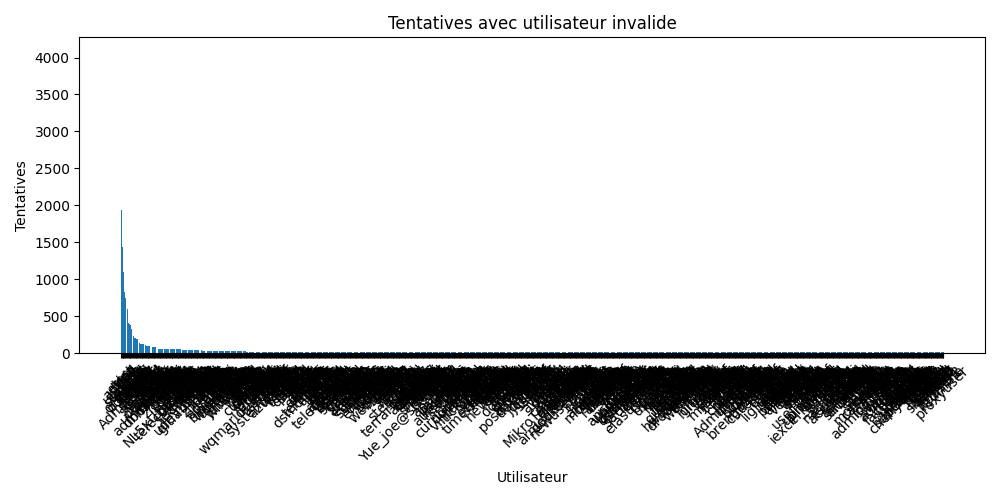
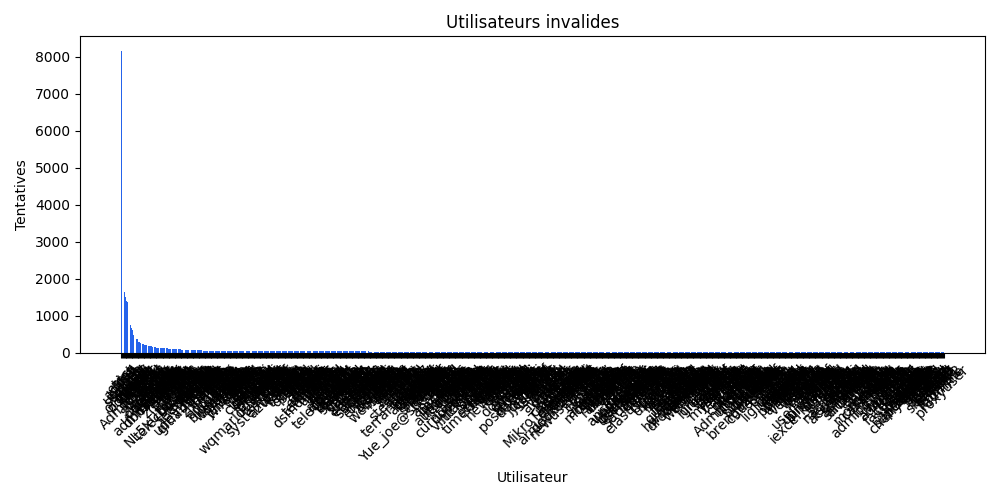
correction

diff --git a/serving/dashboard.py b/serving/dashboard.py
@@ -1,15 +1,11 @@
 import logging
 import os
 import subprocess
-import tkinter as tk
-from tkinter import ttk
 from typing import List, Tuple
 from html import escape
 
-import matplotlib
-
-matplotlib.use("Agg")
 import matplotlib.pyplot as plt
+from matplotlib.patches import FancyBboxPatch
 
 LOGGER = logging.getLogger(__name__)
 
@@ -76,82 +72,6 @@ def _table_rows(data: List[Tuple[str, int]]) -> str:
     )
 
 
-def _write_html(output_dir: str, chart_data: dict) -> None:
-    failed = chart_data["failed_attempts_by_country"]
-    successful = chart_data["successful_attempts_by_user"]
-    invalid = chart_data["failed_invalid_users_by_user"]
-    failed_total = sum(value for _, value in failed)
-    successful_total = sum(value for _, value in successful)
-    invalid_total = sum(value for _, value in invalid)
-    html = f"""<!doctype html>
-<html lang="fr">
-<head>
-  <meta charset="utf-8">
-  <meta name="viewport" content="width=device-width, initial-scale=1">
-  <title>Log Analyser | Dashboard</title>
-  <style>
-    :root {{ --bg:#f4f7fb; --ink:#172033; --muted:#6b7280; --card:#fff;
-      --blue:#2563eb; --red:#dc2626; --green:#059669; --orange:#ea580c; }}
-    * {{ box-sizing:border-box; }}
-    body {{ margin:0; background:var(--bg); color:var(--ink);
-      font:15px -apple-system,BlinkMacSystemFont,"Segoe UI",sans-serif; }}
-    header {{ background:linear-gradient(120deg,#172554,#2563eb); color:white;
-      padding:34px max(24px,calc((100% - 1180px)/2)); }}
-    header h1 {{ margin:0 0 8px; font-size:30px; }}
-    header p {{ margin:0; opacity:.82; }}
-    main {{ max-width:1180px; margin:28px auto; padding:0 24px; }}
-    .cards {{ display:grid; grid-template-columns:repeat(3,1fr); gap:18px; }}
-    .card,.panel {{ background:var(--card); border-radius:14px; padding:22px;
-      box-shadow:0 5px 18px #17255412; }}
-    .card {{ border-left:5px solid var(--blue); }}
-    .card.red {{ border-color:var(--red); }} .card.green {{ border-color:var(--green); }}
-    .card.orange {{ border-color:var(--orange); }}
-    .label {{ color:var(--muted); font-size:13px; text-transform:uppercase;
-      letter-spacing:.06em; }} .value {{ margin-top:8px; font-size:32px; font-weight:700; }}
-    .grid {{ display:grid; grid-template-columns:repeat(2,1fr); gap:18px; margin-top:18px; }}
-    .panel h2 {{ margin:0 0 15px; font-size:19px; }}
-    .chart {{ width:100%; border-radius:8px; background:#fafafa; }}
-    table {{ width:100%; border-collapse:collapse; }}
-    th,td {{ padding:11px 8px; text-align:left; border-bottom:1px solid #e8edf5; }}
-    th:last-child,td:last-child {{ text-align:right; }} th {{ color:var(--muted); font-size:12px;
-      text-transform:uppercase; }} .empty {{ text-align:center!important; color:var(--muted); }}
-    footer {{ color:var(--muted); text-align:center; padding:20px; font-size:13px; }}
-    @media(max-width:760px) {{ .cards,.grid {{ grid-template-columns:1fr; }} main {{ padding:0 14px; }} }}
-  </style>
-</head>
-<body>
-  <header><h1>Log Analyser</h1><p>Dashboard de surveillance des authentifications SSH</p></header>
-  <main>
-    <section class="cards">
-      <div class="card red"><div class="label">Tentatives échouées</div><div class="value">{failed_total:,}</div></div>
-      <div class="card green"><div class="label">Connexions réussies</div><div class="value">{successful_total:,}</div></div>
-      <div class="card orange"><div class="label">Utilisateurs invalides</div><div class="value">{invalid_total:,}</div></div>
-    </section>
-    <section class="grid">
-      <article class="panel"><h2>Échecs par pays</h2>
-        <img class="chart" src="failed_attempts_by_country.png" alt="Échecs par pays">
-        <table><thead><tr><th>Pays</th><th>Nombre</th></tr></thead>
-          <tbody>{_table_rows(failed)}</tbody></table>
-      </article>
-      <article class="panel"><h2>Connexions réussies par utilisateur</h2>
-        <img class="chart" src="successful_attempts_by_user.png" alt="Connexions réussies">
-        <table><thead><tr><th>Utilisateur</th><th>Nombre</th></tr></thead>
-          <tbody>{_table_rows(successful)}</tbody></table>
-      </article>
-      <article class="panel"><h2>Utilisateurs invalides</h2>
-        <img class="chart" src="failed_invalid_users_by_user.png" alt="Utilisateurs invalides">
-        <table><thead><tr><th>Utilisateur</th><th>Nombre</th></tr></thead>
-          <tbody>{_table_rows(invalid)}</tbody></table>
-      </article>
-    </section>
-  </main>
-  <footer>Généré automatiquement par le projet Log Analyser</footer>
-</body>
-</html>
-"""
-    with open(os.path.join(output_dir, "index.html"), "w", encoding="utf-8") as file:
-        file.write(html)
-
 
 def launch_dashboard_app() -> None:
     """Generate and display the dashboard in a native desktop window."""
@@ -165,107 +85,120 @@ def launch_dashboard_app() -> None:
     try:
         os.makedirs(output_dir, exist_ok=True)
         values = [(title, _query(f"SELECT * FROM {view};")) for title, view in datasets]
-        data_by_title = dict(values)
-        for title, (view, x_label, y_label) in zip(
-            ("Tentatives échouées par pays", "Tentatives réussies par utilisateur",
-             "Tentatives avec utilisateur invalide"),
+        chart_specs = (
+            ("Échecs par pays", "failed_attempts_by_country", "Pays", "Tentatives"),
             (
-                ("failed_attempts_by_country", "Pays", "Tentatives"),
-                ("successful_attempts_by_user", "Utilisateur", "Tentatives"),
-                ("failed_invalid_users_by_user", "Utilisateur", "Tentatives"),
+                "Connexions réussies",
+                "successful_attempts_by_user",
+                "Utilisateur",
+                "Tentatives",
             ),
-        ):
+            (
+                "Utilisateurs invalides",
+                "failed_invalid_users_by_user",
+                "Utilisateur",
+                "Tentatives",
+            ),
+        )
+        data_by_title = dict(values)
+        for title, view, x_label, y_label in chart_specs:
             data = data_by_title[title]
             _create_chart(output_dir, view, title, x_label, y_label, data)
-        _show_native_dashboard(values, output_dir)
+        _show_matplotlib_dashboard(values)
     except (OSError, subprocess.CalledProcessError, ValueError):
         LOGGER.exception("Cannot open dashboard application")
         raise
 
 
-def _show_native_dashboard(
-    values: List[Tuple[str, List[Tuple[str, int]]]], output_dir: str
+def _show_matplotlib_dashboard(
+    values: List[Tuple[str, List[Tuple[str, int]]]],
 ) -> None:
-    root = tk.Tk()
-    root.title("Log Analyser - Dashboard")
-    root.geometry("1180x760")
-    root.minsize(900, 600)
-    root.configure(background="#262833")
-    style = ttk.Style(root)
-    style.theme_use("clam")
-    style.configure("TFrame", background="#262833")
-    style.configure("TLabel", background="#262833", foreground="#f4f4f5")
-    style.configure(
-        "Title.TLabel", background="#262833", foreground="#ffffff",
-        font=("Helvetica", 22, "bold")
+    figure = plt.figure(
+        figsize=(16, 9),
+        num="Log Analyser - Dashboard",
+        facecolor="#f4f7fb",
     )
-    style.configure(
-        "Kpi.TLabel", background="#ffffff", foreground="#172033",
-        font=("Helvetica", 20, "bold")
+    figure.suptitle(
+        "Log Analyser",
+        x=0.06,
+        y=0.96,
+        ha="left",
+        color="#172033",
+        fontsize=24,
+        fontweight="bold",
     )
-    style.configure("KpiName.TLabel", background="#262833", foreground="#d1d5db")
-    style.configure("TLabelframe", background="#ffffff", bordercolor="#9ca3af")
-    style.configure("TLabelframe.Label", background="#ffffff", foreground="#172033")
-    style.configure("TNotebook", background="#262833", borderwidth=0)
-    style.configure(
-        "TNotebook.Tab", background="#d1d5db", foreground="#172033",
-        padding=(12, 6)
-    )
-    style.map(
-        "TNotebook.Tab",
-        background=[("selected", "#ffffff")],
-        foreground=[("selected", "#172033")],
-    )
-    style.configure(
-        "Treeview", background="#ffffff", fieldbackground="#ffffff",
-        foreground="#172033", rowheight=24
-    )
-    style.configure(
-        "Treeview.Heading", background="#e5e7eb", foreground="#172033"
+    figure.text(
+        0.06,
+        0.92,
+        "Surveillance des authentifications SSH",
+        color="#667085",
+        fontsize=12,
+        ha="left",
     )
 
-    ttk.Label(root, text="Log Analyser", style="Title.TLabel").pack(
-        anchor="w", padx=24, pady=(20, 2)
-    )
-    ttk.Label(
-        root, text="Surveillance des authentifications SSH",
-        style="KpiName.TLabel"
-    ).pack(anchor="w", padx=24, pady=(0, 18))
-    cards = ttk.Frame(root)
-    cards.pack(fill="x", padx=24, pady=(0, 18))
-    for column, (title, rows) in enumerate(values):
-        card = ttk.LabelFrame(cards, text=title)
-        card.grid(row=0, column=column, sticky="ew", padx=5)
-        cards.columnconfigure(column, weight=1)
-        ttk.Label(
-            card, text=f"{sum(count for _, count in rows):,}",
-            style="Kpi.TLabel"
-        ).pack(padx=18, pady=14)
+    card_colors = ("#dc2626", "#059669", "#ea580c")
+    card_titles = ("Tentatives échouées", "Connexions réussies", "Utilisateurs invalides")
+    for index, ((_, rows), title, color) in enumerate(
+        zip(values, card_titles, card_colors)
+    ):
+        left = 0.06 + index * 0.30
+        card = figure.add_axes((left, 0.76, 0.27, 0.10))
+        card.set_axis_off()
+        card.add_patch(
+            FancyBboxPatch(
+                (0, 0),
+                1,
+                1,
+                boxstyle="round,pad=0.02,rounding_size=0.04",
+                transform=card.transAxes,
+                facecolor="white",
+                edgecolor="#e4e7ec",
+                linewidth=1,
+            )
+        )
+        card.text(
+            0.07,
+            0.68,
+            title.upper(),
+            color="#667085",
+            fontsize=9,
+            fontweight="bold",
+            va="center",
+        )
+        card.text(
+            0.07,
+            0.30,
+            f"{sum(count for _, count in rows):,}",
+            color=color,
+            fontsize=22,
+            fontweight="bold",
+            va="center",
+        )
 
-    notebook = ttk.Notebook(root)
-    notebook.pack(fill="both", expand=True, padx=24, pady=(0, 24))
-    chart_views = (
-        "failed_attempts_by_country",
-        "successful_attempts_by_user",
-        "failed_invalid_users_by_user",
+    axes = (
+        figure.add_axes((0.06, 0.13, 0.27, 0.54)),
+        figure.add_axes((0.365, 0.13, 0.27, 0.54)),
+        figure.add_axes((0.67, 0.13, 0.27, 0.54)),
     )
-    for (title, rows), view in zip(values, chart_views):
-        tab = ttk.Frame(notebook)
-        notebook.add(tab, text=title)
-        image = tk.PhotoImage(file=os.path.join(output_dir, f"{view}.png"))
-        image = image.subsample(max(1, image.width() // 900))
-        tab.chart_image = image
-        ttk.Label(tab, image=image, background="#ffffff").pack(
-            fill="both", expand=True, padx=12, pady=12
-        )
-        table = ttk.Treeview(
-            tab, columns=("name", "count"), show="headings", height=5
-        )
-        table.heading("name", text="Nom")
-        table.heading("count", text="Nombre")
-        table.column("name", width=260)
-        table.column("count", width=120, anchor="e")
-        for label, count in rows:
-            table.insert("", "end", values=(label, count))
-        table.pack(fill="x", padx=12, pady=(0, 12))
-    root.mainloop()
+    for axis, (title, rows), color in zip(axes, values, card_colors):
+        labels = [label for label, _ in rows[:15]]
+        counts = [count for _, count in rows[:15]]
+        axis.set_facecolor("white")
+        axis.bar(labels, counts, color=color, width=0.72)
+        axis.set_title(title, loc="left", color="#172033", fontsize=13, pad=14)
+        axis.set_ylabel("Tentatives", color="#667085", fontsize=9)
+        axis.tick_params(axis="x", rotation=45, labelsize=8, colors="#475467")
+        axis.tick_params(axis="y", labelsize=8, colors="#475467")
+        axis.grid(axis="y", alpha=0.25, color="#98a2b3")
+        axis.set_axisbelow(True)
+        for spine in axis.spines.values():
+            spine.set_color("#e4e7ec")
+        axis.margins(x=0.04)
+    figure.text(
+        0.06,
+        0.06,
+        "Source : journaux SSH analysés depuis PostgreSQL",
+        color="#98a2b3",
+        fontsize=9,
+    )
+    plt.show()
